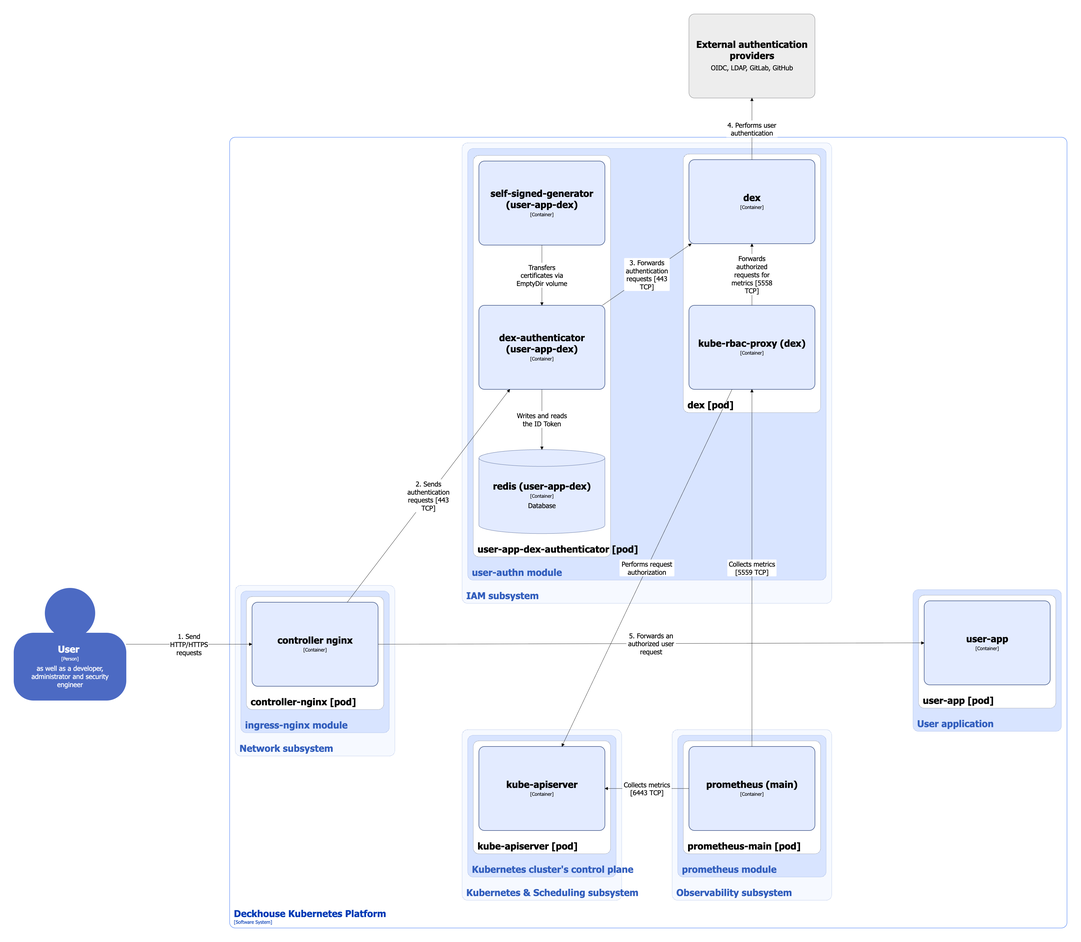
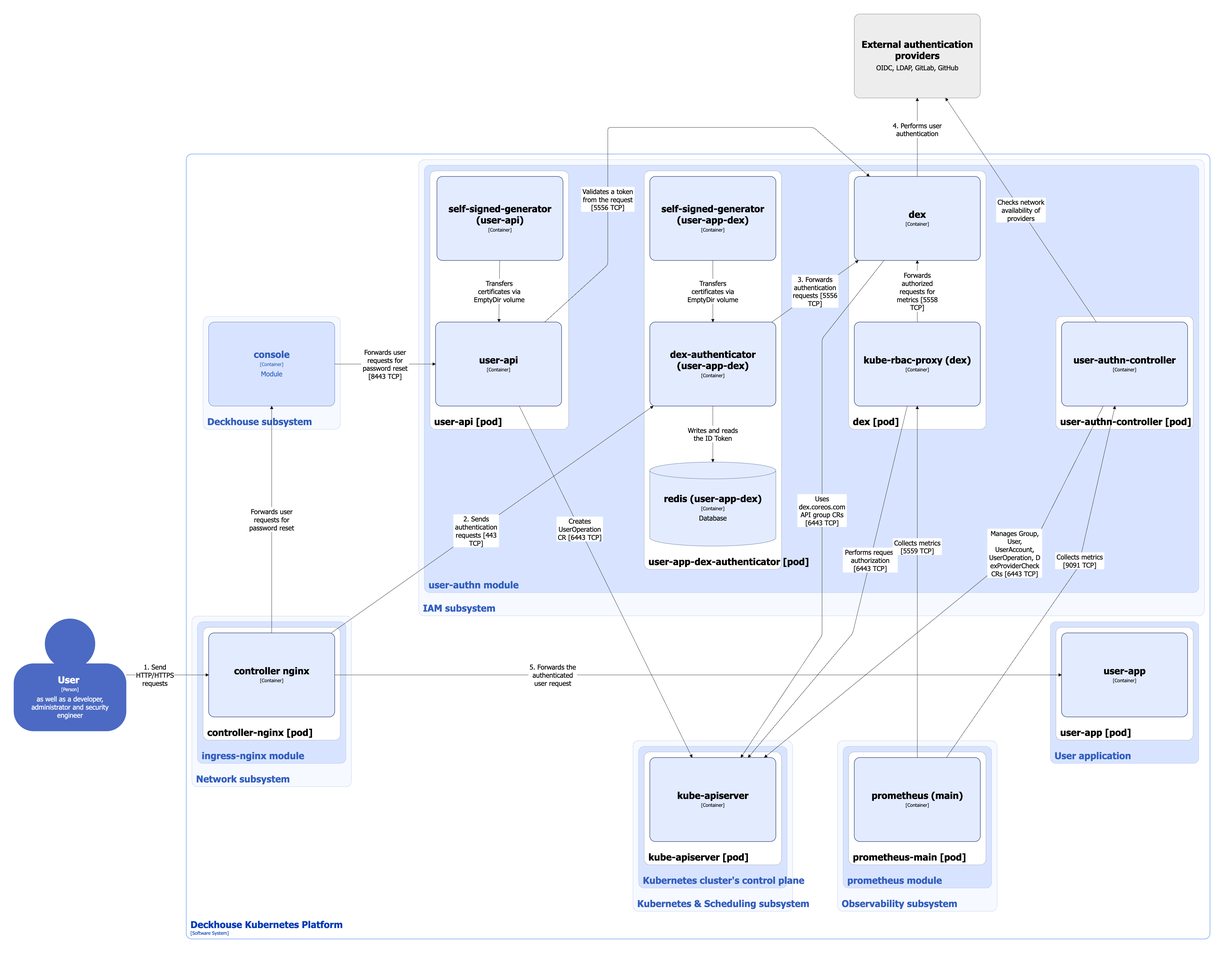
[docs] Add user-authn-controller, user-api and basic-auth-proxy components to user-authn module architecture section (#22838)
GitOrigin-RevId: bd267cb7f6cca3ead597059f4cacb5b81ab67fa0

diff --git a/docs/documentation/pages/architecture/iam/USER_AUTHN_RU.md b/docs/documentation/pages/architecture/iam/USER_AUTHN_RU.md
@@ -30,26 +30,47 @@ description: Архитектура модуля user-authn в Deckhouse Platfor
 
 ![Архитектура модуля user-authn с аутентификацией через dex-authenticator](../../images/architecture/iam/c4-l2-user-authn.ru.png)
 
-Вариант с использованием клиента Dex (для упрощения на схеме не показано взаимодействие модуля `prometheus-main` с dex):
+{% alert level="info" %}
+Для упрощения на следующих схемах показаны только компоненты и их взаимодействия, отличающие эти схемы от варианта с использованием dex-authenticator.
+{% endalert %}
+
+Вариант с использованием клиента Dex:
 
 ![Архитектура модуля user-authn с аутентификацией через Dex](../../images/architecture/iam/c4-l2-user-authn-dex-client.ru.png)
 
-При подключении к API Kubernetes с помощью утилиты `kubectl` или других клиентов Kubernetes с использованием сгенерированного kubeconfig используется отдельная схема аутентификации. Она подробно описана в [соответствующем разделе документации](authentication.html#подключение-к-api-kubernetes-с-помощью-сгенерированного-kubeconfig):
+При подключении к API Kubernetes с помощью утилиты `d8`, `kubectl` или других клиентов Kubernetes с использованием сгенерированного kubeconfig используются отдельные схемы аутентификации:
 
-![Архитектура модуля user-authn при использовании сгенерированного kubeconfig](../../images/architecture/iam/c4-l2-user-authn-kubeconfig.ru.png)
+* аутентификация по токенам, подробно описана в [соответствующем разделе документации](authentication.html#подключение-к-api-kubernetes-с-помощью-сгенерированного-kubeconfig);
+* базовая аутентификация (Basic Authentication), пример настройки базовой аутентификации с использованием провайдера LDAP приведён [в разделе документации модуля](/modules/user-authn/usage.html#%D0%BD%D0%B0%D1%81%D1%82%D1%80%D0%BE%D0%B9%D0%BA%D0%B0-%D0%B1%D0%B0%D0%B7%D0%BE%D0%B2%D0%BE%D0%B9-%D0%B0%D1%83%D1%82%D0%B5%D0%BD%D1%82%D0%B8%D1%84%D0%B8%D0%BA%D0%B0%D1%86%D0%B8%D0%B8).
+
+Вариант подключения к API Kubernetes с аутентификацией по токенам:
+
+![Архитектура модуля user-authn при использовании сгенерированного kubeconfig и аутентификацией по токенам](../../images/architecture/iam/c4-l2-user-authn-kubeconfig.ru.png)
+
+Вариант подключения к API Kubernetes с базовой аутентификацией:
+
+![Архитектура модуля user-authn при использовании сгенерированного kubeconfig и базовой аутентификацией](../../images/architecture/iam/c4-l2-user-authn-kubeconfig-basic.ru.png)
 
 ## Компоненты модуля
 
 Модуль состоит из следующих компонентов:
 
-1. **Dex** — федеративный провайдер OpenID Connect, поддерживающий работу со статическими пользователями и интеграцию с внешними провайдерами аутентификации, такими как SAML, GitLab или GitHub.
+1. **Dex** — федеративный провайдер OpenID Connect, поддерживающий работу со статическими пользователями и интеграцию с внешними провайдерами аутентификации, такими как SAML, GitLab или GitHub. Модуль использует модифицированную версию [Dex](https://github.com/dexidp/dex) для поддержки:
+
+   * групп для статических учетных записей пользователей;
+   * двухфакторной аутентификации (2FA);
+   * политики паролей;
+   * принудительного изменения пароля;
+   * SPNEGO (Kerberos) для LDAP‑коннектора. При использовании этого механизма Dex принимает билеты по заголовку `Authorization: Negotiate`, валидирует их по keytab, и завершает вход без отображения формы ввода логина/пароля и т.д.
+
+   Актуальный список изменений в Dex приведен [в репозитории модуля](https://github.com/deckhouse/deckhouse/blob/main/modules/150-user-authn/images/dex/patches/README.md).
 
    Состоит из следующих контейнеров:
 
    * **dex** — основной контейнер, реализующий функции Dex;
-   * **kube-rbac-proxy** — сайдкар-контейнер с авторизующим прокси на основе Kubernetes RBAC для организации защищенного доступа к метрикам провайдера.
+   * **kube-rbac-proxy** — сайдкар-контейнер с авторизующим прокси на основе Kubernetes RBAC для организации защищенного доступа к метрикам провайдера. Является [Open Source-проектом](https://github.com/brancz/kube-rbac-proxy).
 
-2. **Dex-authenticator** — [middleware](https://github.com/oauth2-proxy/oauth2-proxy/blob/master/docs/static/img/simplified-architecture.svg)-сервис для аутентификации запросов к приложениям через сервис аутентификации кластера DP.
+1. **Dex-authenticator** — [middleware](https://github.com/oauth2-proxy/oauth2-proxy/blob/master/docs/static/img/simplified-architecture.svg)-сервис для аутентификации запросов к приложениям через сервис аутентификации кластера DP.
 
    При соответствующей настройке Ingress-контроллера (через модуль `auth_request` NGINX) запросы сначала направляются в dex-authenticator для аутентификации.
 
@@ -59,24 +80,53 @@ description: Архитектура модуля user-authn в Deckhouse Platfor
    * **redis** — сайдкар-контейнер c базой данных Redis, используемый для временного хранения ID Token и быстрого доступа к ним (за счет размещения базы в памяти);
    * **self-signed-generator** — init-контейнер, генерирующий самоподписанный сертификат при запуске пода.
 
+1. **User-authn-controller** — контроллер, состоящий из одного контейнера **user-authn-controller** и выполняющий следующие операции:
+
+   * управление кастомными ресурсами модуля:
+
+     * [Group](/modules/user-authn/cr.html#group) — ресурс, описывающий статическую группу;
+     * [User](/modules/user-authn/cr.html#user) — ресурс, описывающий статического пользователя;
+     * UserAccount — ресурс, описывающий представление объектов Dex Password и OfflineSessions для веб-интерфейса DKP;
+     * [UserOperation](/modules/user-authn/cr.html#useroperation) — ресурс, описывающий операции над пользователем (сброс пароля, сброс 2FA, блокировка/разблокировка);
+     * DexProviderCheck — ресурс, описывающий проверку доступности конкретного провайдера Dex. Проверка подтверждает, что провайдер существует, активен, Dex доступен, а эндпоинт провайдера достижим. При этом не выполняется полная процедура аутентификации пользователя.
+
+   * удаление пользователей с истекшим сроком действия учетной записи (у которых значение поля [`status.expireAt`](/modules/user-authn/cr.html#user-v1-status-expireat) раньше текущего времени);
+   * периодическая проверка доступности настроенных внешних провайдеров аутентификации (используя кастомные ресурсы DexProviderCheck);
+   * выявление конфликтующих настроек TLS-сертификатов [в конфигурации подключения стороннего провайдера LDAP](/modules/user-authn/cr.html#dexprovider-v1-spec-ldap) и экспорт соответствующей метрики.
+
+   User-authn-controller при управлении кастомными ресурсами модуля использует в качестве бэкенда кастомные ресурсы Password, OfflineSession и Refreshtoken API-группы `dex.coreos.com`, используемые провайдером Dex как хранилище.
+
+1. **User-api** — компонент, реализующий сервис сброса пользователем пароля своей учетной записи. Сервис доступен пользователю только через веб-интерфейс DKP и не требует прав администратора платформы. Сбросить можно пароль только для текущего пользователя. User-api валидирует токены поступающих запросов в dex. Для выполнения данной операции компонент создает кастомный ресурс UserOperation с типом `ResetPassword`, который обрабатывается компонентом user-authn-controller.
+
+   Состоит из следующих контейнеров:
+
+   * **self-signed-generator** — init-контейнер, генерирующий самоподписанный сертификат при запуске пода;
+   * **user-api** — основной контейнер сервиса.
+
+1. **Basic-auth-proxy** — опциональный компонент, состоящий из одного контейнера **proxy**, который запускается при включении базовой аутентификации в настройках одного из внешних провайдеров. При подключении к API Kubernetes компонент basic-auth-proxy выполняет базовую аутентификацию пользователей во внешних провайдерах через dex, кеширует результаты проверки учётных данных и проксирует аутентифицированные запросы в API Kubernetes.
+
 ## Взаимодействия модуля
 
 Модуль взаимодействует со следующими компонентами:
 
-1. Внешние провайдеры аутентификации.
-2. **Kube-apiserver** — авторизация запросов на получение метрик.
+1. **Внешние провайдеры аутентификации**.
+1. **Kube-apiserver**:
+
+   * управление кастомными ресурсами модуля;
+   * авторизация запросов на получение метрик.
 
 С модулем взаимодействуют следующие внешние компоненты:
 
 1. **Ingress-контроллер** — перенаправляет в dex-authenticator запросы на аутентификацию в служебных сервисах DP и в пользовательских приложениях.
 
-2. **Пользовательские приложения** — могут аутентифицироваться в dex напрямую (без dex-authenticator), если для приложения настроен OAuth2-клиент в Dex. Подробнее с настройкой клиента Dex можно ознакомиться в [документации модуля `user-authn`](/modules/user-authn/usage.html#настройка-oauth2-клиента-в-dex-для-подключения-приложения).
+1. **Пользовательские приложения** — могут аутентифицироваться в dex напрямую (без dex-authenticator), если для приложения настроен OAuth2-клиент в Dex. Подробнее с настройкой клиента Dex можно ознакомиться в [документации модуля `user-authn`](/modules/user-authn/usage.html#настройка-oauth2-клиента-в-dex-для-подключения-приложения).
 
-3. **Kube-apiserver** — обращается в dex при обработке запросов к API Kubernetes, выполняемых с использованием файла kubeconfig:
+1. **Kube-apiserver** — обращается в dex при обработке запросов к API Kubernetes, выполняемых с использованием файла kubeconfig:
 
    * при запуске kube-apiserver запрашивает конфигурационный эндпоинт OIDC-провайдера (в данном случае — Dex), чтобы получить информацию об `issuer` и параметры для проверки токенов через JWKS-эндпоинт;
-   * при получении запроса с ID token kube-apiserver проверяет его подпись с использованием ключей, полученных с JWKS-эндпоинта.
+   * при получении запроса с ID token kube-apiserver проверяет его подпись с использованием ключей, полученных с JWKS-эндпоинта, а затем проверяет значения claim'ов токена на соответствие конфигурации сервера.
 
-   Подробнее о тем, как работает подключение к API Kubernetes с помощью сгенерированного kubeconfig, можно ознакомиться на [соответствующей странице документации](authentication.html#подключение-к-api-kubernetes-с-помощью-сгенерированного-kubeconfig).
+   Подробнее о том, как работает подключение к API Kubernetes с помощью сгенерированного kubeconfig, можно ознакомиться на [соответствующей странице документации](authentication.html#подключение-к-api-kubernetes-с-помощью-сгенерированного-kubeconfig).
 
-4. **Prometheus-main** — сбор метрик провайдера dex.
+1. **Prometheus-main** — сбор метрик компонентов модуля.
+1. **[Веб-интерфейс Deckhouse](/modules/console/)** — пересылает запросы пользователей на сброс пароля.

diff --git a/docs/documentation/pages/architecture/iam/USER_AUTHN.md b/docs/documentation/pages/architecture/iam/USER_AUTHN.md
@@ -29,26 +29,47 @@ Using dex-authenticator:
 
 ![User-authn module architecture with dex-authenticator authentication](../../images/architecture/iam/c4-l2-user-authn.png)
 
-Using the Dex client (for simplicity, the interaction between the `prometheus-main` module and dex is not shown in the diagram):
+{% alert level="info" %}
+For simplicity, the following diagrams show only the components and their interactions that distinguish these diagrams from the variant using dex-authenticator.
+{% endalert %}
+
+Using the Dex client:
 
 ![User-authn module architecture with Dex authentication](../../images/architecture/iam/c4-l2-user-authn-dex-client.png)
 
-When connecting to the Kubernetes API using `kubectl` or other Kubernetes clients with a generated kubeconfig, a separate authentication scheme is used. It is described in detail in the [corresponding documentation section](authentication.html#connecting-to-kubernetes-api-using-a-generated-kubeconfig):
+When connecting to the Kubernetes API using  `d8`, `kubectl` or other Kubernetes clients with a generated kubeconfig, a separate authentication schemes are used:
 
-![User-authn module architecture when using a generated kubeconfig](../../images/architecture/iam/c4-l2-user-authn-kubeconfig.png)
+* Token authentication. It is described in detail in the [corresponding documentation section](authentication.html#connecting-to-kubernetes-api-using-a-generated-kubeconfig).
+* Basic authentication. An example of configuring basic authentication using an LDAP provider is described in [the module documentation](/modules/user-authn/usage.html#configuring-basic-authentication) section.
+
+Using a generated kubeconfig and a token authentication:
+
+![User-authn module architecture when using a generated kubeconfig and a token authentication](../../images/architecture/iam/c4-l2-user-authn-kubeconfig.png)
+
+Using a generated kubeconfig and a basic authentication:
+
+![User-authn module architecture when using a generated kubeconfig and a basic authentication](../../images/architecture/iam/c4-l2-user-authn-kubeconfig-basic.png)
 
 ## Module components
 
 The module consists of the following components:
 
-1. **Dex**: Federated OpenID Connect provider that supports static users and integration with external authentication providers such as SAML, GitLab, or GitHub.
+1. **Dex**: Federated OpenID Connect provider that supports static users and integration with external authentication providers such as SAML, GitLab, or GitHub. The module uses a modified version of [Dex](https://github.com/dexidp/dex) to support:
+
+   * Groups for static user accounts.
+   * Two-factor authentication (2FA).
+   * Password policies.
+   * Forced password change.
+   * Kerberos (SPNEGO) support for the LDAP connector. When enabled, Dex accepts `Authorization: Negotiate` tickets, validates them with a service keytab, and completes the login without rendering the password form, etc.
+
+   For actual list of Dex modifications, refer to the [module repository](https://github.com/deckhouse/deckhouse/blob/main/modules/150-user-authn/images/dex/patches/README.md).
 
    It consists of the following containers:
 
    * **dex**: Main container implementing Dex functions.
-   * **kube-rbac-proxy**: Sidecar container with an authorization proxy based on Kubernetes RBAC that provides secure access to provider metrics.
+   * **kube-rbac-proxy**: Sidecar container with an authorization proxy based on Kubernetes RBAC that provides secure access to provider metrics. It is an [open source project](https://github.com/brancz/kube-rbac-proxy).
 
-2. **Dex-authenticator**: [Middleware](https://github.com/oauth2-proxy/oauth2-proxy/blob/master/docs/static/img/simplified-architecture.svg) service used to authenticate requests to applications through the DP cluster authentication service.
+1. **Dex-authenticator**: [Middleware](https://github.com/oauth2-proxy/oauth2-proxy/blob/master/docs/static/img/simplified-architecture.svg) service used to authenticate requests to applications through the DP cluster authentication service.
 
    When the Ingress controller is configured accordingly (using the NGINX `auth_request` module), requests are first forwarded to dex-authenticator for authentication.
 
@@ -58,24 +79,53 @@ The module consists of the following components:
    * **redis**: Sidecar container with a Redis database used for temporary storage of ID tokens and fast access to them (since the database resides in memory).
    * **self-signed-generator**: Init container that generates a self-signed certificate when the pod starts.
 
+1. **User-authn-controller**: A controller that consists of a single **user-authn-controller** container and performing following operations:
+
+   * Manages module custom resources:
+
+     * [Group](/modules/user-authn/cr.html#group): A resource that describes user group.
+     * [User](/modules/user-authn/cr.html#user): A resource that describes static user.
+     * UserAccount: A resource that describes view of Dex Password and OfflineSessions objects for the DKP web UI.
+     * [UserOperation](/modules/user-authn/cr.html#useroperation): A resource that describes an operation to be applied to a user (password reset, 2FA reset, lock/unlock).
+     * DexProviderCheck: A resource that describes a connectivity check for the specific DexProvider. The check verifies that the provider exists, is enabled, Dex is reachable, and the provider endpoint is reachable. It does not perform a full user authentication flow.
+
+   * Deletes expired Users (users whose [`status.expireAt`](/modules/user-authn/cr.html#user-v1-status-expireat) field is in the past).
+   * Checks periodically an availability of configured external authentication providers (using DexProviderCheck custom resources).
+   * Finds out conflicting TLS-certificates [in external LDAP provider configuration settings](/modules/user-authn/cr.html#dexprovider-v1-spec-ldap) and exports the corresponding metric.
+
+   User-authn-controller uses `dex.coreos.com` API group custom resources (Password, OfflineSession and Refreshtoken used by Dex as a storage) as a backend to manage module custom resources.
+
+1. **User-api**: A component that implements a self-service for users to reset a password for their user account. The service is available to the user only via the DKP web interface and does not require platform administrator rights. The password can only be reset for the current user. User-api validates the incoming requests tokens in dex component. To perform this operation, the component creates UserOperation custom resource of the `ResetPassword` type, which is processed by the user-authn-controller component.
+
+   It consists of the following containers:
+
+   * **self-signed-generator**: Init container that generates a self-signed certificate when the pod starts.
+   * **user-api**: Main container of the service.
+
+1. **Basic-auth-proxy**: An optional component consisting of a single **proxy** container, which is launched when basic authentication is enabled in the settings of one of an external providers. When connecting to the Kubernetes API, the basic-auth-proxy component performs basic user authentication with external providers via dex, caches credentials validation results, and proxies authenticated requests to the Kubernetes API.
+
 ## Module interactions
 
 The module interacts with the following components:
 
-1. External authentication providers.
-2. **Kube-apiserver**: Authorization of requests to retrieve metrics.
+1. **External authentication providers**.
+1. **Kube-apiserver**:
+
+   * Manages module custom resources.
+   * Authorizes requests for metrics.
 
 The following external components interact with the module:
 
 1. **Ingress controller**: Forwards authentication requests to dex-authenticator for DP platform services and user applications.
 
-2. **User applications**: Can authenticate directly with dex (without dex-authenticator) if an OAuth2 client is configured in Dex for the application. For more details about configuring a Dex client, refer to the [`user-authn` module documentation](/modules/user-authn/usage.html#configuring-the-oauth2-client-in-dex-for-connecting-an-application).
+1. **User applications**: Can authenticate directly with dex (without dex-authenticator) if an OAuth2 client is configured in Dex for the application. For more details about configuring a Dex client, refer to the [`user-authn` module documentation](/modules/user-authn/usage.html#configuring-the-oauth2-client-in-dex-for-connecting-an-application).
 
-3. **Kube-apiserver**: Queries dex when processing Kubernetes API requests made using a kubeconfig file:
+1. **Kube-apiserver**: Queries dex when processing Kubernetes API requests made using a kubeconfig file:
 
    * When starting, kube-apiserver requests the OIDC provider configuration endpoint (Dex in this case) to obtain the `issuer` and the parameters required to validate tokens via the JWKS endpoint.
-   * When receiving a request with an ID token, kube-apiserver verifies its signature using the keys obtained from the JWKS endpoint.
+   * When receiving a request with an ID token, kube-apiserver verifies its signature using the keys obtained from the JWKS endpoint, then it compares token claims against the server configuration.
 
    More details about connecting to the Kubernetes API using a generated kubeconfig can be found in the [corresponding documentation page](authentication.html#connecting-to-kubernetes-api-using-a-generated-kubeconfig).
 
-4. **Prometheus-main**: Collects metrics from the dex provider.
+1. **Prometheus-main**: Collects metrics from the dex provider.
+1. **[Deckhouse web UI](/modules/console/)**: Forwards user requests for password reset.
